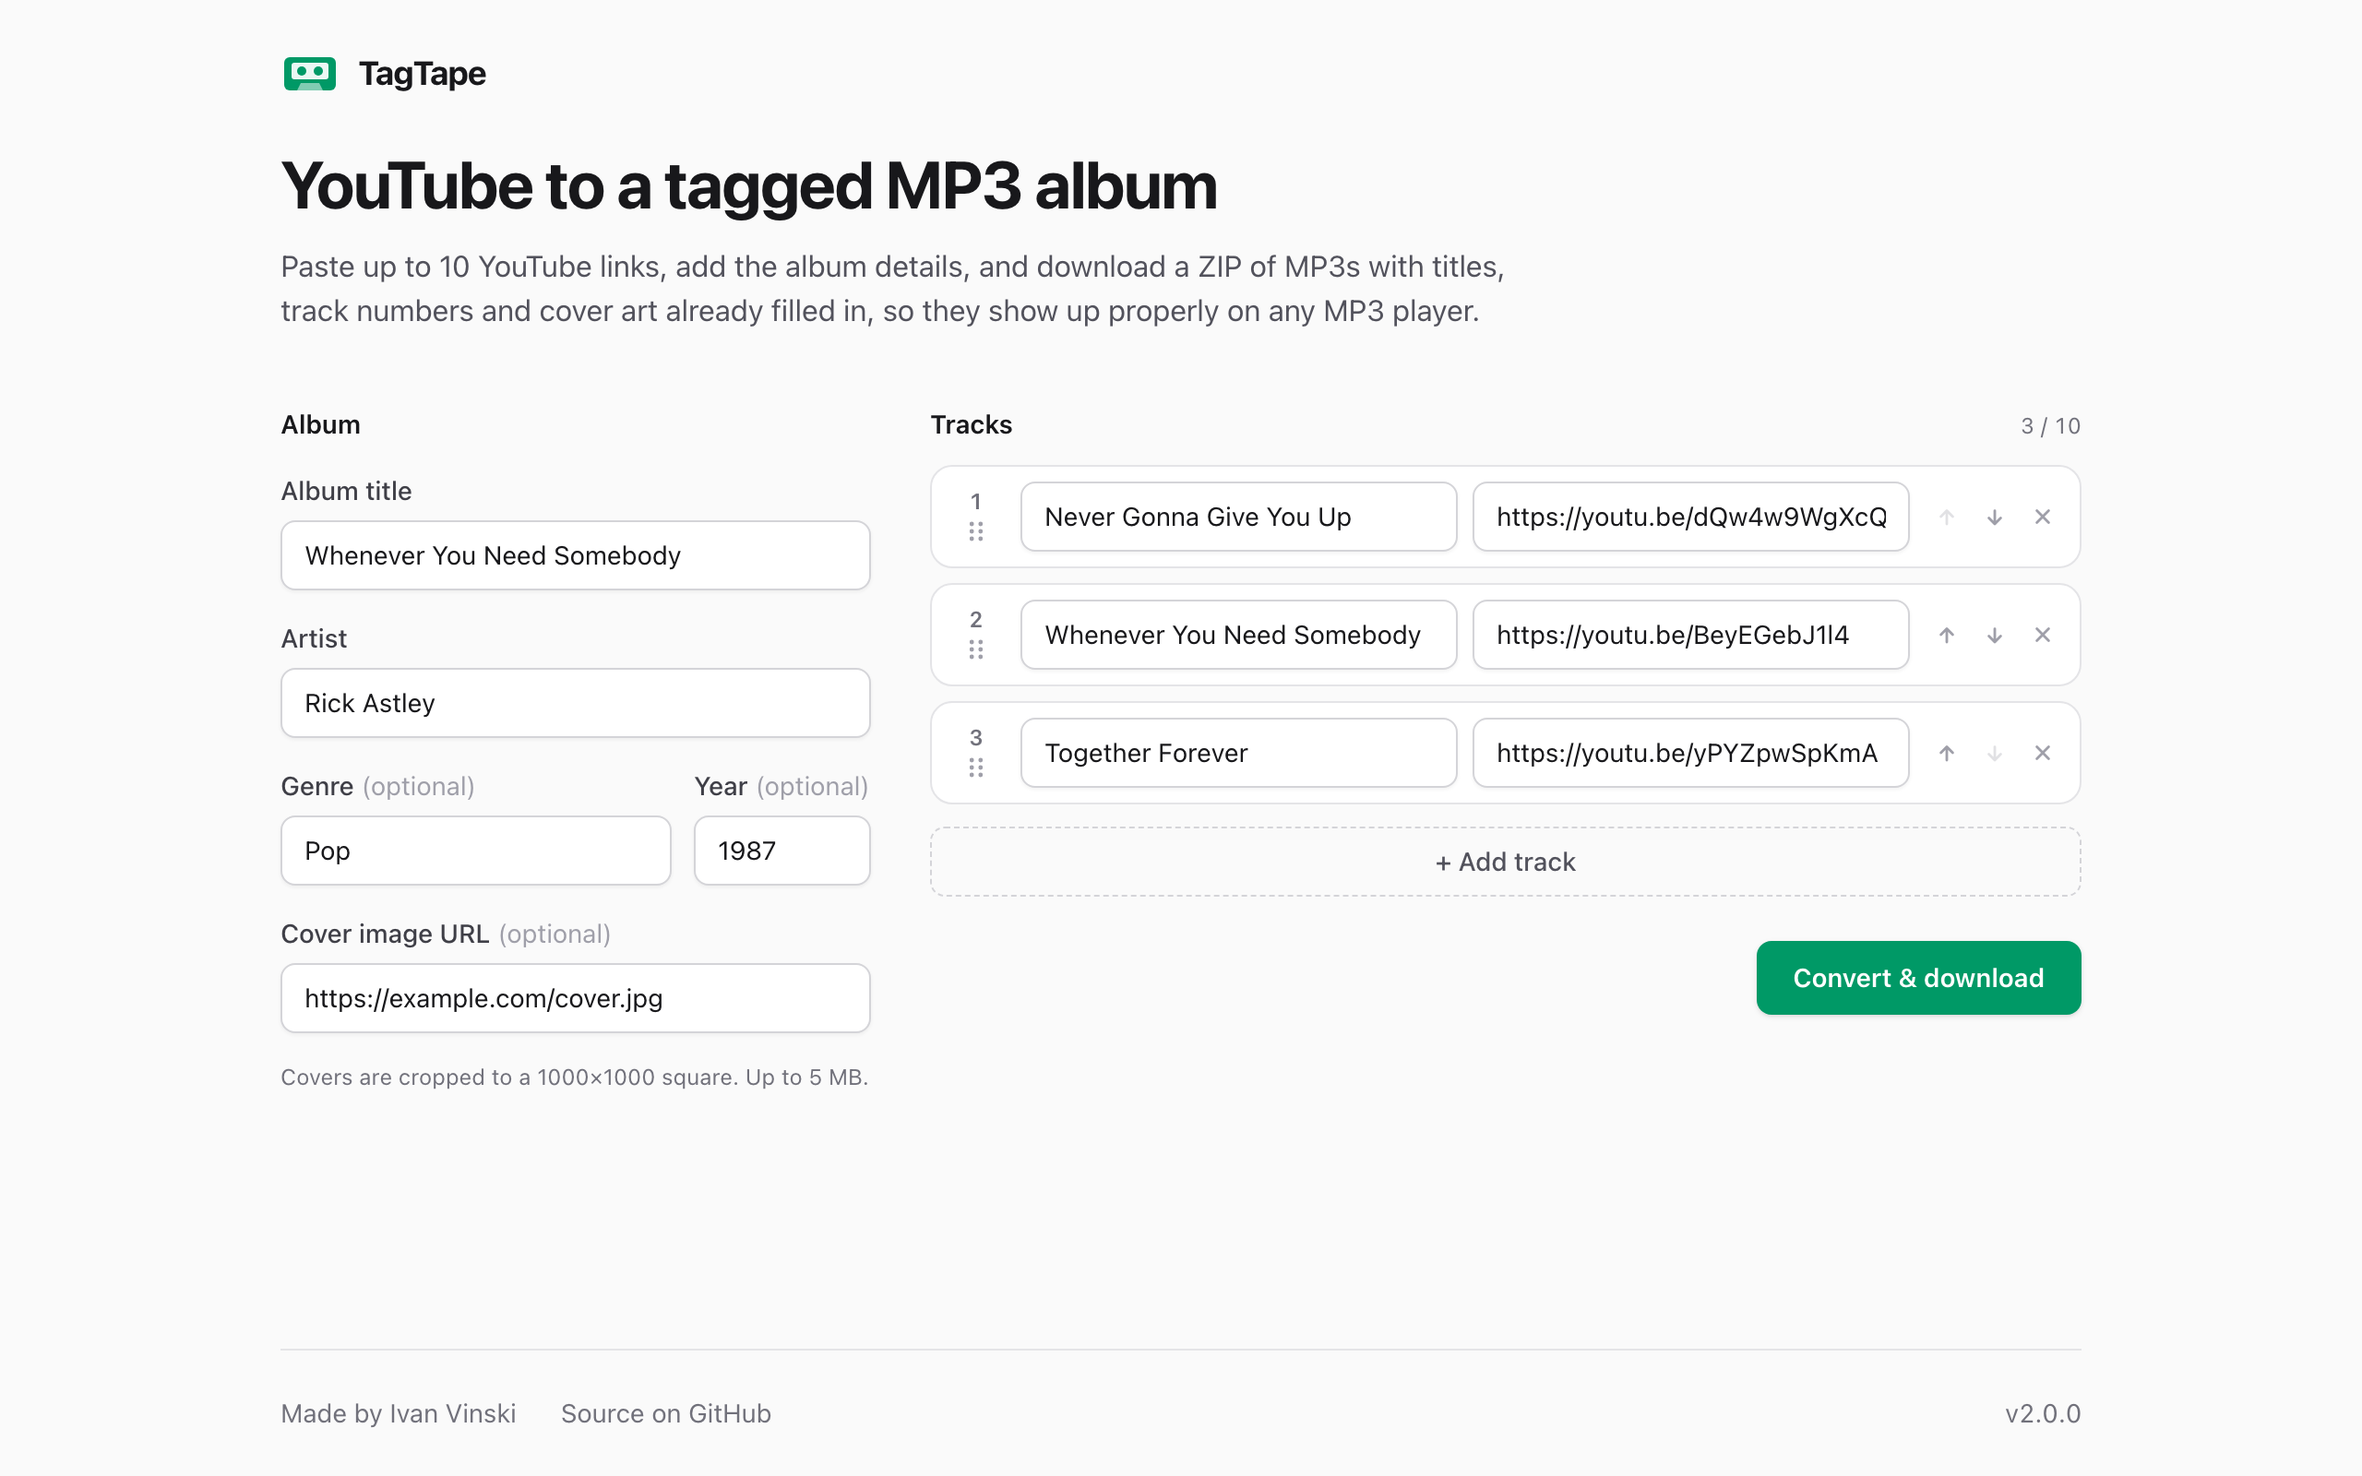
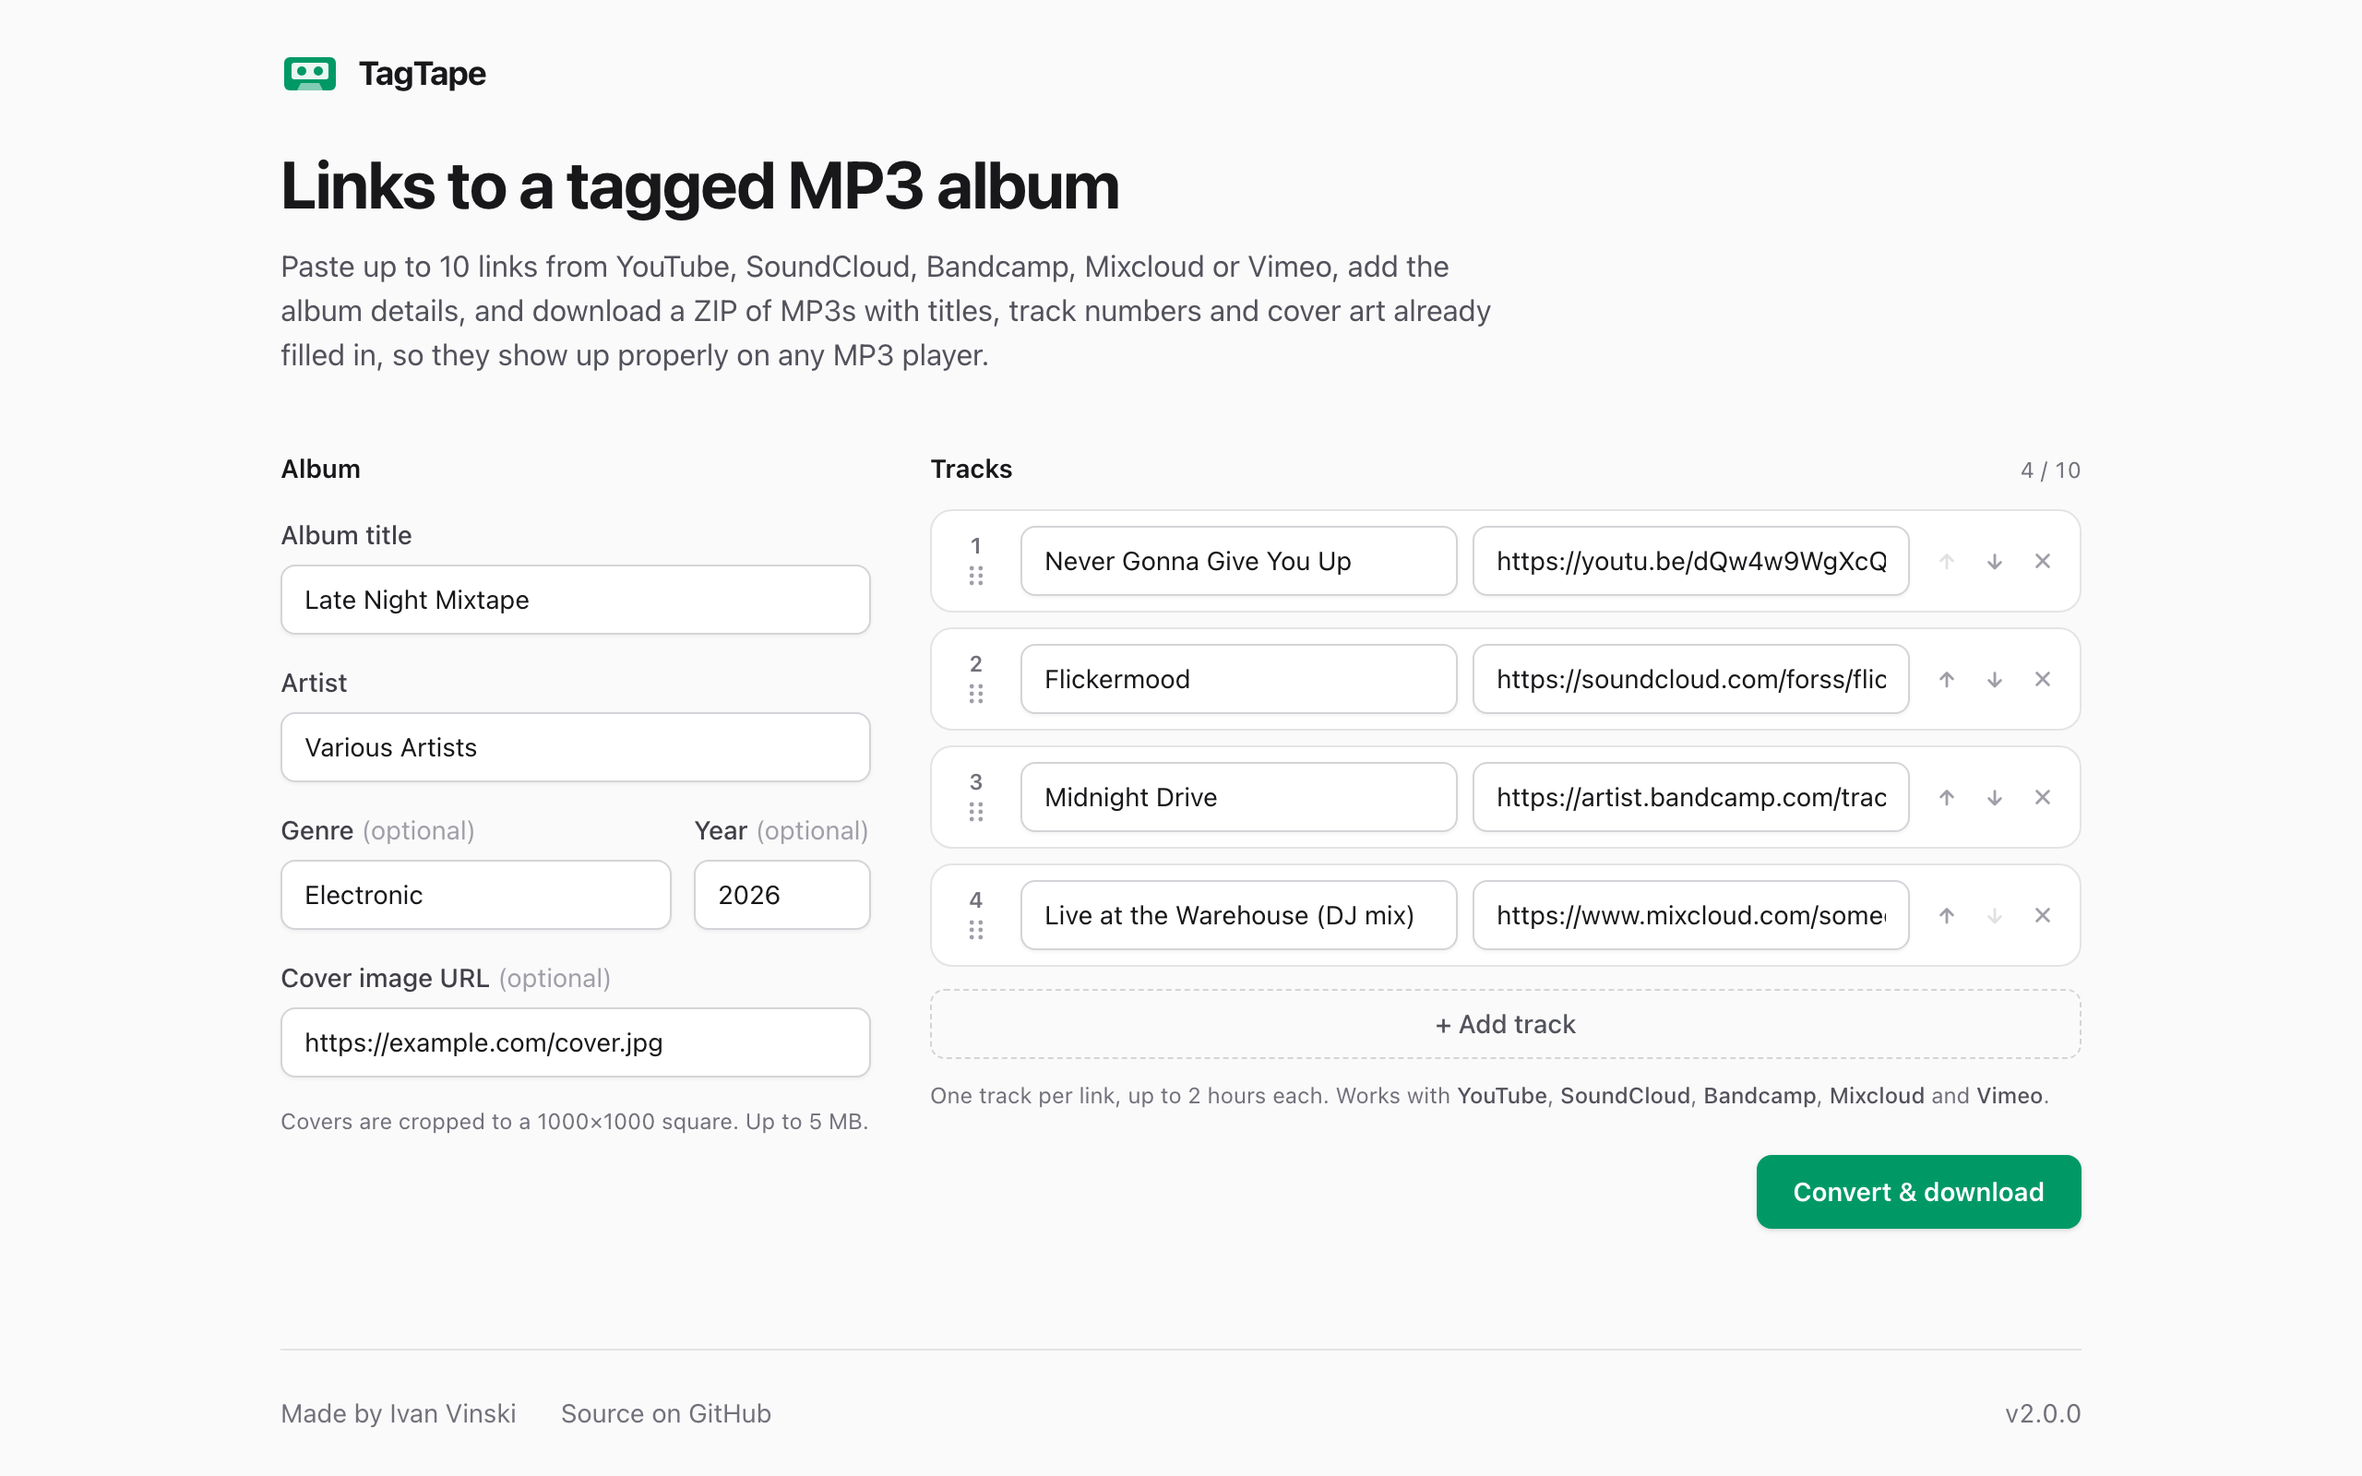
feat(web): site-neutral copy for multi-source albums

diff --git a/apps/web/src/components/track-list.tsx b/apps/web/src/components/track-list.tsx
@@ -14,9 +14,19 @@ import {
 	verticalListSortingStrategy,
 } from "@dnd-kit/sortable";
 import { CSS } from "@dnd-kit/utilities";
-import { MAX_TRACKS } from "@tagtape/shared";
+import {
+	MAX_TRACK_SECONDS,
+	MAX_TRACKS,
+	SUPPORTED_SITES,
+} from "@tagtape/shared";
 import type { FieldErrors, TrackDraft } from "#/lib/album-draft";
 import { TextField } from "./text-field";
+
+/** "2 hours", from the shared limit. */
+const limitText =
+	MAX_TRACK_SECONDS % 3600 === 0
+		? `${MAX_TRACK_SECONDS / 3600} hour${MAX_TRACK_SECONDS === 3600 ? "" : "s"}`
+		: `${Math.round(MAX_TRACK_SECONDS / 60)} minutes`;
 
 interface TrackListProps {
 	tracks: TrackDraft[];
@@ -110,6 +120,18 @@ export function TrackList({
 					+ Add track
 				</button>
 			)}
+			<p className="mt-3 text-xs text-zinc-500">
+				One track per link, up to {limitText} each. Works with{" "}
+				{SUPPORTED_SITES.map((site, i) => (
+					<span key={site.id}>
+						{i > 0 && (i === SUPPORTED_SITES.length - 1 ? " and " : ", ")}
+						<span className="font-medium text-zinc-600 dark:text-zinc-400">
+							{site.name}
+						</span>
+					</span>
+				))}
+				.
+			</p>
 		</section>
 	);
 }
@@ -197,9 +219,9 @@ function TrackRow({
 				/>
 				<TextField
 					id={`track-${track.key}-url`}
-					label={`Track ${number} YouTube link`}
+					label={`Track ${number} link`}
 					hideLabel
-					placeholder="YouTube link"
+					placeholder="Track link"
 					type="url"
 					inputMode="url"
 					value={track.url}

diff --git a/apps/web/src/routes/index.tsx b/apps/web/src/routes/index.tsx
@@ -1,3 +1,4 @@
+import { MAX_TRACKS, SUPPORTED_SITE_NAMES } from "@tagtape/shared";
 import { createFileRoute } from "@tanstack/react-router";
 import { useState } from "react";
 import { AlbumForm } from "#/components/album-form";
@@ -23,12 +24,13 @@ function Home() {
 		<>
 			<section className="mb-10 max-w-2xl">
 				<h1 className="text-3xl font-bold tracking-tight text-zinc-900 sm:text-4xl dark:text-zinc-50">
-					YouTube to a tagged MP3 album
+					Links to a tagged MP3 album
 				</h1>
 				<p className="mt-3 text-zinc-600 dark:text-zinc-400">
-					Paste up to 10 YouTube links, add the album details, and download a
-					ZIP of MP3s with titles, track numbers and cover art already filled
-					in, so they show up properly on any MP3 player.
+					Paste up to {MAX_TRACKS} links from {SUPPORTED_SITE_NAMES}, add the
+					album details, and download a ZIP of MP3s with titles, track numbers
+					and cover art already filled in, so they show up properly on any MP3
+					player.
 				</p>
 			</section>
 

diff --git a/apps/web/src/routes/__root.tsx b/apps/web/src/routes/__root.tsx
@@ -1,15 +1,15 @@
+import { SUPPORTED_SITE_NAMES } from "@tagtape/shared";
 import { createRootRoute, HeadContent, Scripts } from "@tanstack/react-router";
 import appCss from "../styles.css?url";
 
-const DESCRIPTION =
-	"Turn YouTube videos into a ZIP of MP3s with album, artist, track numbers and cover art filled in. Works on any MP3 player.";
+const DESCRIPTION = `Turn links from ${SUPPORTED_SITE_NAMES} into a ZIP of MP3s with album, artist, track numbers and cover art filled in. Works on any MP3 player.`;
 
 export const Route = createRootRoute({
 	head: () => ({
 		meta: [
 			{ charSet: "utf-8" },
 			{ name: "viewport", content: "width=device-width, initial-scale=1" },
-			{ title: "TagTape: YouTube to tagged MP3 albums" },
+			{ title: "TagTape: links to tagged MP3 albums" },
 			{ name: "description", content: DESCRIPTION },
 			{ name: "theme-color", content: "#059669" },
 			{ property: "og:title", content: "TagTape" },

diff --git a/apps/web/src/lib/web.test.ts b/apps/web/src/lib/web.test.ts
@@ -84,14 +84,18 @@ describe("API client", () => {
 			issues: [
 				{
 					path: "/tracks/0/url",
-					message: "Enter a link to a single YouTube video",
+					message:
+						"Enter a link to a single track on YouTube, SoundCloud, Bandcamp, Mixcloud or Vimeo",
 				},
 			],
 		});
 		expect(await createJob(album, config)).toEqual({
 			ok: false,
 			message: "Some fields need attention.",
-			fieldErrors: { "tracks.0.url": "Enter a link to a single YouTube video" },
+			fieldErrors: {
+				"tracks.0.url":
+					"Enter a link to a single track on YouTube, SoundCloud, Bandcamp, Mixcloud or Vimeo",
+			},
 		});
 	});
 

diff --git a/apps/web/src/components/job-progress.tsx b/apps/web/src/components/job-progress.tsx
@@ -4,7 +4,7 @@ import { type JobView, useJob } from "#/lib/use-job";
 
 const JOB_LABELS: Record<JobStatus, string> = {
 	queued: "Waiting for a free slot…",
-	probing: "Checking your videos…",
+	probing: "Checking your tracks…",
 	processing: "Converting your tracks…",
 	packaging: "Creating the ZIP…",
 	done: "Your album is ready",

diff --git a/AGENTS.md b/AGENTS.md
@@ -62,7 +62,7 @@ tanstackIntent:
 
 # TagTape — agent instructions
 
-TagTape turns 1–10 YouTube links plus album details (title, artist, genre, year, cover) into a ZIP of ID3-tagged MP3s laid out as an album, so the tracks sort and display correctly on any plain MP3 player. It is stateless: no accounts, no database. https://tagtape.app
+TagTape turns 1–10 track links (YouTube, SoundCloud, Bandcamp, Mixcloud, Vimeo) plus album details (title, artist, genre, year, cover) into a ZIP of ID3-tagged MP3s laid out as an album, so the tracks sort and display correctly on any plain MP3 player. It is stateless: no accounts, no database. https://tagtape.app
 
 ## Repo layout
 
@@ -70,7 +70,7 @@ TagTape turns 1–10 YouTube links plus album details (title, artist, genre, yea
 |---|---|
 | `apps/web/` | TanStack Start web app (`@tagtape/web`). |
 | `apps/api/` | `@tagtape/api`: a Fastify 5 service that runs yt-dlp and ffmpeg, writes the tags, and builds the ZIP as background jobs. It runs on Node's native type stripping (`node src/server.ts`), with no build step. See `apps/api/README.md`. |
-| `packages/shared/` | `@tagtape/shared`: zod schemas (`albumInputSchema`, `jobSnapshotSchema`), `parseYouTubeUrl`, limits. Exports TS source directly: no build step. Vite bundles it, and Node runs it with native type stripping. |
+| `packages/shared/` | `@tagtape/shared`: zod schemas (`albumInputSchema`, `jobSnapshotSchema`), `parseTrackUrl` + `SUPPORTED_SITES`, limits. Exports TS source directly: no build step. Vite bundles it, and Node runs it with native type stripping. |
 
 How the parts talk to each other: the browser only ever talks to the web app. Server functions call the API with a bearer token, and the ZIP download goes through the web route `GET /download/:jobId`, which streams it from the API's `/jobs/:id/archive`.
 
@@ -109,7 +109,11 @@ Run `pnpm check`, `pnpm typecheck` and the relevant tests before calling a task 
 - **Biome** is the only linter and formatter. Don't add ESLint or Prettier.
 - **TypeScript strict.** Validate input with **zod** schemas from `@tagtape/shared`, and use the same schema on the client and the server.
 - **External binaries** (yt-dlp, ffmpeg) are spawned with an **argument array, never a shell string**. TagTape v1 (the 2020 PHP app, at tag `v1.0.0`) had a shell injection bug from building a command string.
-- Only accept YouTube URLs, normalised by the shared parser. Fetch remote images with a size cap, a timeout, and private-IP blocking (SSRF).
+- **Sources are allow-listed twice.** `parseTrackUrl` (`packages/shared/src/sources.ts`) accepts only canonical single-track URLs from `SUPPORTED_SITES`, and yt-dlp runs with `--use-extractors` built from the same list.
+  - To add a site, add it to `SUPPORTED_SITES` (with yt-dlp's exact extractor name from `yt-dlp --list-extractors`), write a strict parser with accept/reject tests, and probe a real track in the container.
+  - Never enable yt-dlp's generic extractor or accept arbitrary URLs: that would make the server an SSRF proxy. Never try to get around DRM.
+  - UI and meta copy read the site names from `SUPPORTED_SITES`, so don't hard-code them.
+- Fetch remote images with a size cap, a timeout, and private-IP blocking (SSRF).
 - Jobs are in-memory, and their temp files are cleaned up by a TTL sweeper. Don't add persistence without asking.
 - pnpm settings live in `pnpm-workspace.yaml`. `.npmrc` is for auth only (see the `pnpm` skill).
 - Versions used by more than one package (zod, vitest, typescript) go in the pnpm **catalog**: write `"catalog:"` in package.json, or use `pnpm add --save-catalog`.

diff --git a/CHANGELOG.md b/CHANGELOG.md
@@ -9,7 +9,8 @@ A complete rewrite of Albumie as **TagTape** ([tagtape.app](https://tagtape.app)
 ### Added
 - Web app built with TanStack Start and Tailwind, with dark mode and a mobile layout. You can reorder tracks by dragging or with buttons.
 - **Background jobs with live progress**: each track goes from download to conversion to tagging, and the ZIP downloads automatically when it's ready.
-- Every track is checked **before** anything downloads. Videos longer than 10 minutes, live streams, and private or unavailable videos are rejected with a reason per track, and the form keeps everything you typed.
+- **Five sources:** links from YouTube (incl. YouTube Music), SoundCloud, Bandcamp, Mixcloud and Vimeo, mixed freely in one album. Tracks can be up to **2 hours** long (v1: 10 minutes, YouTube only), so DJ mixes fit.
+- Every track is checked **before** anything downloads. Tracks longer than 2 hours, live streams, and private, unavailable or DRM-protected tracks are rejected with a reason per track, and the form keeps everything you typed.
 - Covers are **centre-cropped** to 1000×1000 instead of stretched.
 - ID3v2.3 tags for wide player support: title, artist, album artist, album, `n/total` track number, year, genre and front cover.
 - **Unicode filenames** (`01 - Тест ✓.mp3`) instead of ASCII-only.
@@ -17,11 +18,11 @@ A complete rewrite of Albumie as **TagTape** ([tagtape.app](https://tagtape.app)
 - Reusable, provider-neutral **deploy config** for a single server (any cloud-init host: DigitalOcean, Hetzner, Vultr, Linode, AWS, …; Ubuntu or Debian, amd64 or arm64): cloud-init bootstrap, Docker Compose with Caddy for automatic HTTPS, and a manual GitHub Actions deploy with a pinned SSH host key, health-gated rollout and an outside check. See [docs/deploy.md](docs/deploy.md).
 
 ### Changed
-- youtube-dl (unmaintained since 2020) is replaced by **yt-dlp**. Each video is fetched once instead of twice.
+- youtube-dl (unmaintained since 2020) is replaced by **yt-dlp**. Each track is fetched once instead of twice.
 - Relicensed from GPL-2.0 to the **Unlicense** (public domain).
 
 ### Security
-- Fixed **shell injection**: v1 passed the user's URL to `shell_exec`. Binaries now run with argument arrays, never through a shell, and only canonical single-video YouTube URLs are accepted.
+- Fixed **shell injection**: v1 passed the user's URL to `shell_exec`. Binaries now run with argument arrays, never through a shell, and only canonical single-track URLs from the five supported sites are accepted. yt-dlp is additionally restricted to those sites' extractors (`--use-extractors`), so it can never fetch arbitrary pages.
 - Added **SSRF protection** for cover image URLs (private, loopback and link-local addresses are blocked on every redirect hop), plus a size cap and a timeout.
 - The API is internal to the container. The web app talks to it with a per-start random token.
 

diff --git a/README.md b/README.md
@@ -1,11 +1,11 @@
 # TagTape
-> Convert YouTube to MP3 with metadata for standard MP3 players.
+> Turn links from YouTube, SoundCloud, Bandcamp, Mixcloud or Vimeo into a tagged MP3 album for standard MP3 players.
 
 [![CI](https://github.com/vindotski/tagtape/actions/workflows/ci.yml/badge.svg)](https://github.com/vindotski/tagtape/actions/workflows/ci.yml)
 
-![TagTape: album details on the left, up to 10 reorderable YouTube tracks on the right](docs/screenshot.png)
+![TagTape: album details on the left, up to 10 reorderable tracks from different sites on the right](docs/screenshot.png)
 
-Paste up to 10 YouTube links, add the album title, artist, year, genre and a cover image, and download a ZIP of MP3s with every tag filled in and the tracks numbered in your order. The albums show up properly on any plain MP3 player.
+Paste up to 10 links from **YouTube** (incl. YouTube Music), **SoundCloud**, **Bandcamp**, **Mixcloud** or **Vimeo** (one track each, up to 2 hours long), add the album title, artist, year, genre and a cover image, and download a ZIP of MP3s with every tag filled in and the tracks numbered in your order. The albums show up properly on any plain MP3 player.
 
 Built with [TanStack Start](https://tanstack.com/start), with a Fastify service running [yt-dlp](https://github.com/yt-dlp/yt-dlp) and ffmpeg. Version 1 was a 2020 Symfony/PHP app called Albumie; its code is preserved at the [`v1.0.0`](https://github.com/vindotski/tagtape/tree/v1.0.0) tag.
 

diff --git a/docs/deploy.md b/docs/deploy.md
@@ -104,7 +104,7 @@ The first deploy also issues the HTTPS certificate, which can take up to a minut
 
 ## 6. Test a real conversion (every new server)
 
-Open the site and convert a short video, for example `https://youtu.be/jNQXAC9IVRw` (19 s). If the track fails with **"YouTube refused to provide this video"**, check the logs:
+Open the site and convert a short video, for example `https://youtu.be/jNQXAC9IVRw` (19 s). If the track fails with **"The site refused to provide this track"**, check the logs:
 
 ```bash
 ssh deploy@<server-ip> 'cd /opt/tagtape && docker compose logs --tail 50 app'
